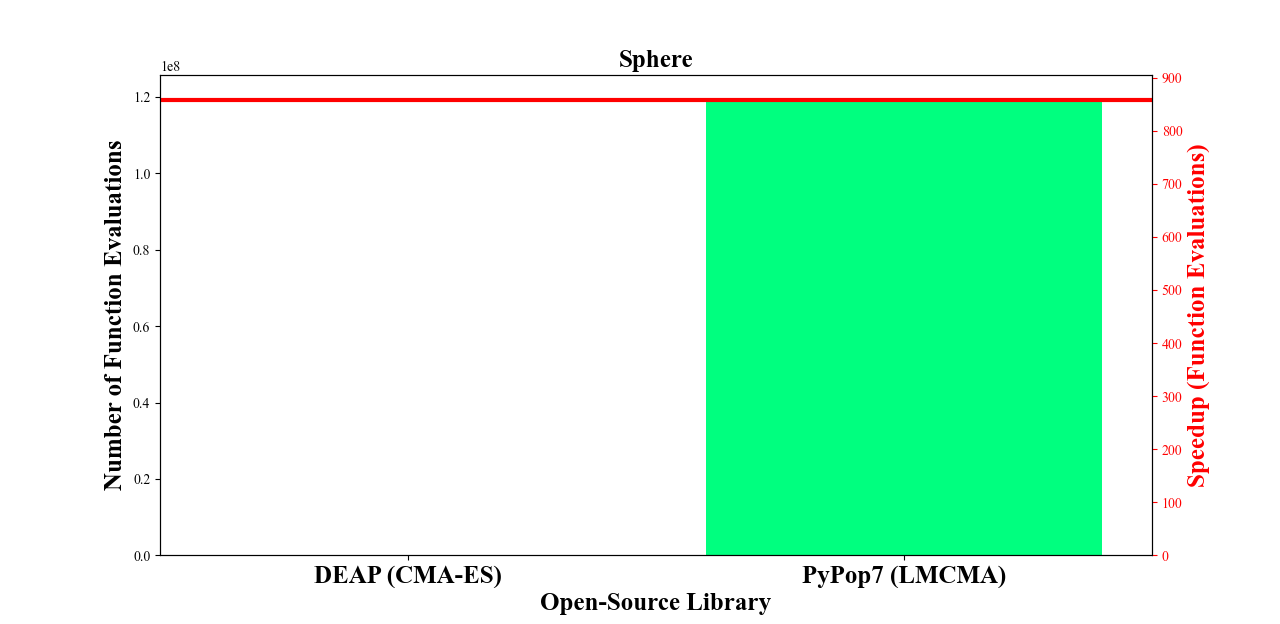
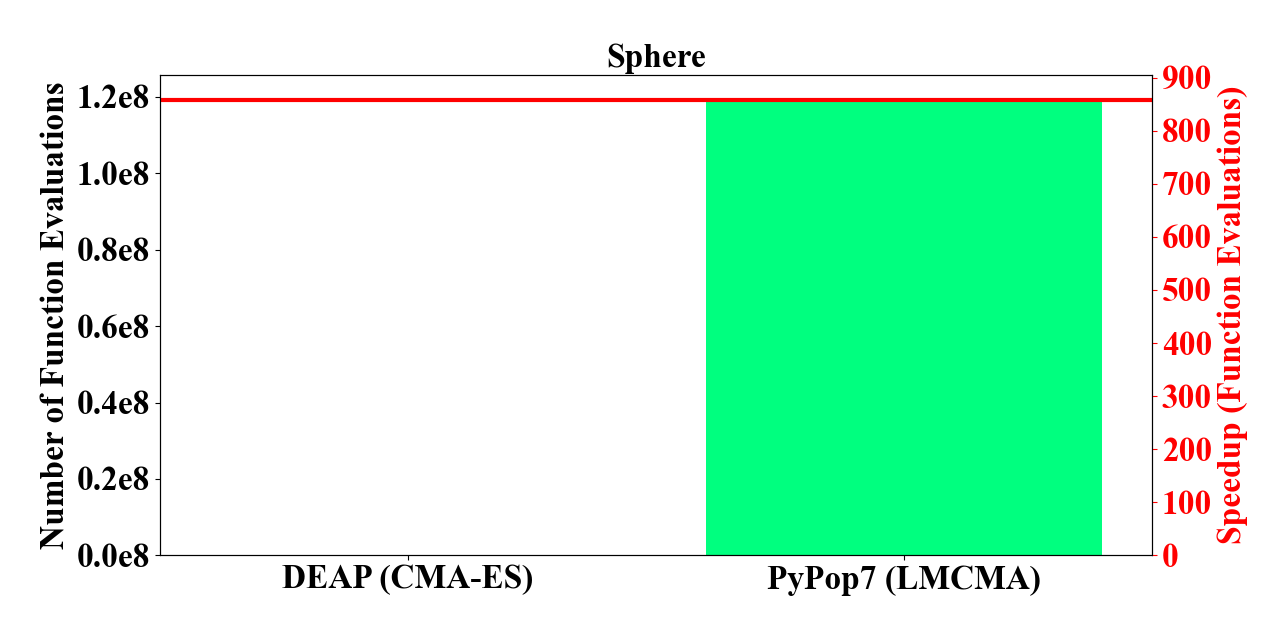
Update docs/efficiency/sphere/compare_deap-cmaes_vs_pypop7-lmcma.py

diff --git a/docs/efficiency/sphere/compare_deap-cmaes_vs_pypop7-lmcma.py b/docs/efficiency/sphere/compare_deap-cmaes_vs_pypop7-lmcma.py
@@ -57,17 +57,17 @@ if __name__ == '__main__':
     top_fitness = [t for t in [tr[2] for tr in top_fitness]]
     print('  #top fitness:', top_fitness)
     print('  #top order:', [(a, to + 1) for a, to in zip(algos, top_order)])
-    plt.figure(figsize=(8.5, 8.5))
+    plt.figure()
     plt.rcParams['font.family'] = 'Times New Roman'
     for j, a in enumerate(algos):
         plt.plot(fe[j][top_order[j]], fitness[j][top_order[j]], label=a, color=colors[j])
-    plt.xlabel('Number of Function Evaluations', fontsize=18, fontweight='bold')
-    plt.ylabel('Cost', fontsize=18, fontweight='bold')
-    plt.xticks(fontsize=18, fontweight='bold')
-    plt.yticks(fontsize=18, fontweight='bold')
+    plt.xlabel('Number of Function Evaluations', fontsize=24, fontweight='bold')
+    plt.ylabel('Cost', fontsize=24, fontweight='bold')
+    plt.xticks(fontsize=24, fontweight='bold')
+    plt.yticks(fontsize=24, fontweight='bold')
     plt.yscale('log')
-    plt.title('Sphere', fontsize=18, fontweight='bold')
-    plt.legend(labels, fontsize=18)
+    plt.title('Sphere', fontsize=24, fontweight='bold')
+    plt.legend(labels, fontsize=24)
     plt.show()
 
     algos = ['DEAP', 'PYPOP7LM']
@@ -104,7 +104,7 @@ if __name__ == '__main__':
         top_fitness.append([run[order], fit[order], a])
     top_fitness.sort(key=lambda x: (x[0], x[1]))
     top_fitness = [t for t in [tr[2] for tr in top_fitness]]
-    fig = plt.figure(figsize=(8.5, 8.5))
+    fig = plt.figure()
     plt.rcParams['font.family'] = 'Times New Roman'
     ax1 = fig.add_subplot(111)
     ax2 = ax1.twinx()
@@ -112,13 +112,16 @@ if __name__ == '__main__':
     for j, a in enumerate(algos):
         ax1.bar([0.5 + j], [fe[j][top_order[j]][-1]], fc=colors[j])
         xticks.append(0.5 + j)
-    ax1.set_xlabel('Open-Source Library', fontsize=18, fontweight='bold')
-    ax1.set_ylabel('Number of Function Evaluations', fontsize=18, fontweight='bold')
-    ax1.set_xticks(xticks, labels, fontsize=18, fontweight='bold')
+    # ax1.set_xlabel('Open-Source Library', fontsize=24, fontweight='bold')
+    ax1.set_ylabel('Number of Function Evaluations', fontsize=24, fontweight='bold')
+    ax1.set_xticks(xticks, labels, fontsize=24, fontweight='bold')
+    ax1.set_yticks([0.0e8, 0.2e8, 0.4e8, 0.6e8, 0.8e8, 1.0e8, 1.2e8],
+                   ['0.0e8', '0.2e8', '0.4e8', '0.6e8', '0.8e8', '1.0e8', '1.2e8'],
+                   fontsize=24, fontweight='bold')
     ax1.set_xlim(0, len(xticks))
     ax2.plot(np.ones(len(xticks) + 1,)*fe[1][top_order[1]][-1]/fe[0][top_order[0]][-1], color='r', linewidth=3)
     ax2.tick_params(colors='r')
-    ax2.set_ylabel('Speedup (Function Evaluations)', fontsize=18, fontweight='bold', color='r')
-    ax2.set_yticks(np.arange(0, 901, 100))
-    plt.title('Sphere', fontsize=18, fontweight='bold')
+    ax2.set_ylabel('Speedup (Function Evaluations)', fontsize=24, fontweight='bold', color='r')
+    ax2.set_yticks(np.arange(0, 901, 100), np.arange(0, 901, 100), fontsize=24, fontweight='bold')
+    plt.title('Sphere', fontsize=24, fontweight='bold')
     plt.show()
